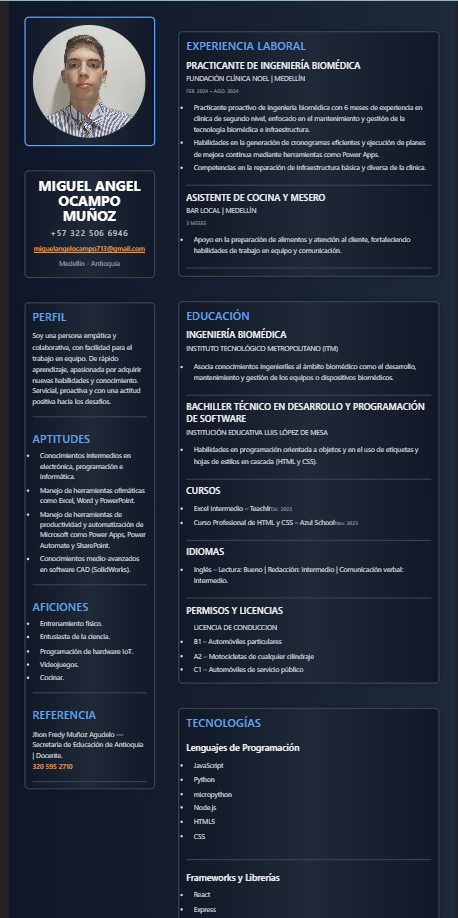
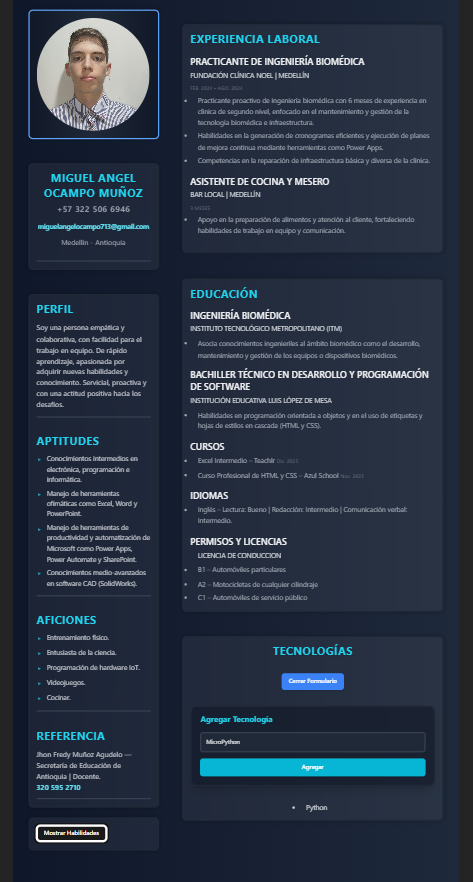
docs: actualización del README con descripción de eventos y estados

diff --git a/README.md b/README.md
@@ -2,7 +2,6 @@
 # CV Miguel Angel Ocampo Muñoz
 Este proyecto es una aplicación React donde presento mi información personal, habilidades, estudios, tecnologias y experiencia.
 
-Vista general del proyecto
 ![alt text](image.png)
 
 # Instrucciones para ejecutar el proyecto
@@ -57,4 +56,23 @@ Usa "npm run dev" y ejecuta tu proyecto en el local host
 # Commits del 24 de Noviembre de 2025 
 
 * Creacion de componente dinamico renderizacion de lista condicional StackTecnologias
-  `1c06c91`
+`1c06c91`
+
+# Commits del 2 de diciembre del 2025
+* Renderizado dinámico de tecnologías desde App, modificaciones extras
+`db4b8fc`
+
+* Función agregarTecnologia en StackTecnologias.jsx y paso como prop
+`4778fd7`
+
+* Creación de componente FormularioTecnologia con inputs
+`dc0f904`
+
+* Implementación de useState para mostrar/ocultar habilidades
+`04b7902`
+
+* Creación de componente ToggleHabilidades con renderizado
+`f6c687a`
+
+* Organización inicial del proyecto para integración de eventos
+`412643e`
